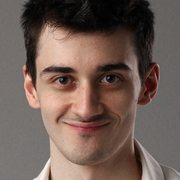
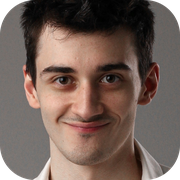
241

diff --git a/core/index.html b/core/index.html
@@ -8,11 +8,11 @@
       content="CORE — закрытый мессенджер для приватной коммуникации. Кейс продуктового дизайнера Никиты Козлова."
     />
     <title>CORE — мессенджер без пользователя</title>
-    <link rel="icon" href="../favicon.ico?v=237" sizes="any" />
-    <link rel="icon" type="image/png" sizes="32x32" href="../favicon-32.png?v=237" />
-    <link rel="icon" type="image/png" sizes="192x192" href="../favicon-192.png?v=237" />
-    <link rel="apple-touch-icon" sizes="180x180" href="../apple-touch-icon.png?v=237" />
-<link rel="stylesheet" href="../styles.css?v=239" />
+    <link rel="icon" href="../favicon.ico?v=240" sizes="any" />
+    <link rel="icon" type="image/png" sizes="32x32" href="../favicon-32.png?v=240" />
+    <link rel="icon" type="image/png" sizes="192x192" href="../favicon-192.png?v=240" />
+    <link rel="apple-touch-icon" sizes="180x180" href="../apple-touch-icon.png?v=240" />
+<link rel="stylesheet" href="../styles.css?v=241" />
   </head>
   <body class="core-page typography-only">
     <main class="core-intro" id="cover">
@@ -33,14 +33,7 @@
         </div>
 
         <div class="core-intro__video-presentation" aria-label="Презентация кейса">
-          <img
-            class="core-intro__video-avatar"
-            src="../assets/core-case-presentation-avatar-v238.png"
-            alt="Портрет Никиты Козлова"
-            width="128"
-            height="128"
-            decoding="async"
-          />
+          <div class="core-intro__video-avatar" aria-hidden="true"></div>
           <div class="core-intro__video-copy">
             <p class="core-intro__video-title">Презентация кейса на 2 мин.</p>
           </div>
@@ -1239,6 +1232,13 @@
             if (section.getBoundingClientRect().top <= nav.offsetHeight + 8) {
               currentSection = section.id;
             }
+          }
+
+          const reachedCaseEnd =
+            window.scrollY + window.innerHeight >= document.documentElement.scrollHeight - 4;
+
+          if (reachedCaseEnd) {
+            currentSection = "launch";
           }
 
           const navigationSection = currentSection === "scenarios" ? "discovery" : currentSection;

diff --git a/index.html b/index.html
@@ -8,17 +8,17 @@
       content="Козлов Никита — продуктовый дизайнер. Портфолио и опыт работы."
     />
     <title>Козлов Никита — продуктовый дизайнер</title>
-    <link rel="icon" href="favicon.ico?v=237" sizes="any" />
-    <link rel="icon" type="image/png" sizes="32x32" href="favicon-32.png?v=237" />
-    <link rel="icon" type="image/png" sizes="192x192" href="favicon-192.png?v=237" />
-    <link rel="apple-touch-icon" sizes="180x180" href="apple-touch-icon.png?v=237" />
+    <link rel="icon" href="favicon.ico?v=240" sizes="any" />
+    <link rel="icon" type="image/png" sizes="32x32" href="favicon-32.png?v=240" />
+    <link rel="icon" type="image/png" sizes="192x192" href="favicon-192.png?v=240" />
+    <link rel="apple-touch-icon" sizes="180x180" href="apple-touch-icon.png?v=240" />
     <link rel="preload" as="image" href="assets/optimized-v219/nikita-kozlov-1728w.jpg?v=219" />
     <link rel="preload" as="image" href="assets/optimized-v219/case-core-v138-945w.png?v=219" />
     <link rel="preload" as="image" href="assets/optimized-v219/case-echo-v138-1334w.png?v=219" />
     <script>
       document.documentElement.classList.add("is-loading");
     </script>
-    <link rel="stylesheet" href="styles.css?v=239" />
+    <link rel="stylesheet" href="styles.css?v=241" />
   </head>
   <body>
     <div class="site-loader" role="status" aria-live="polite">
